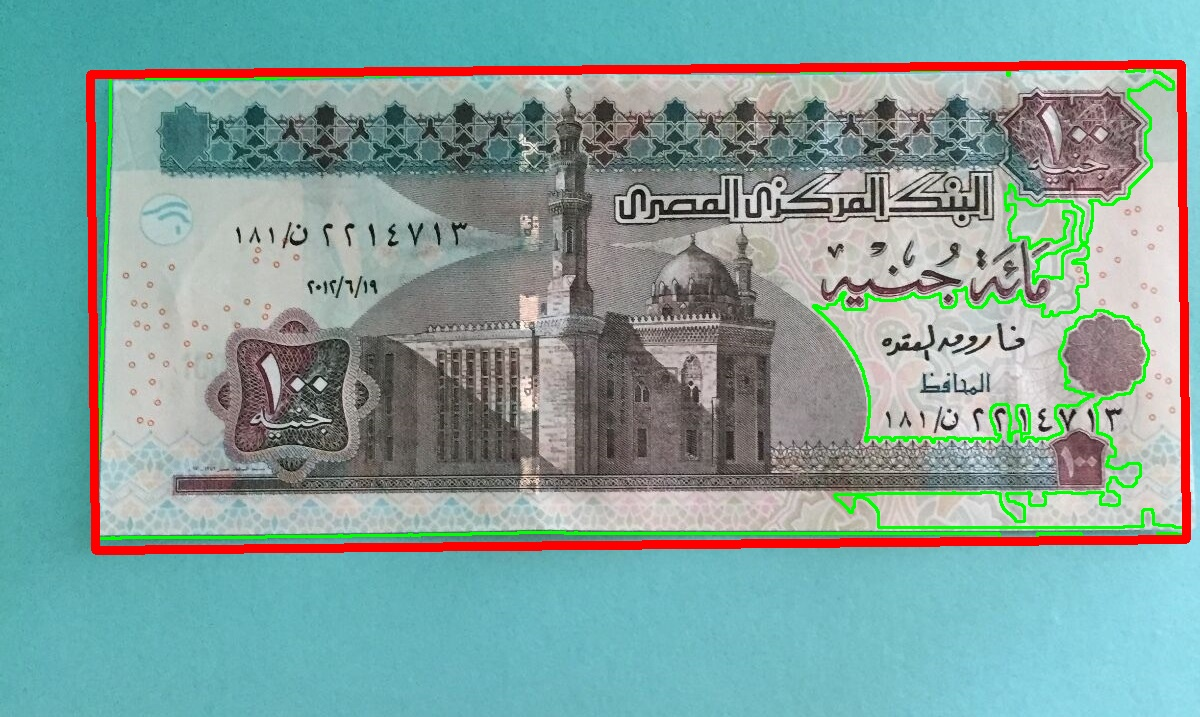
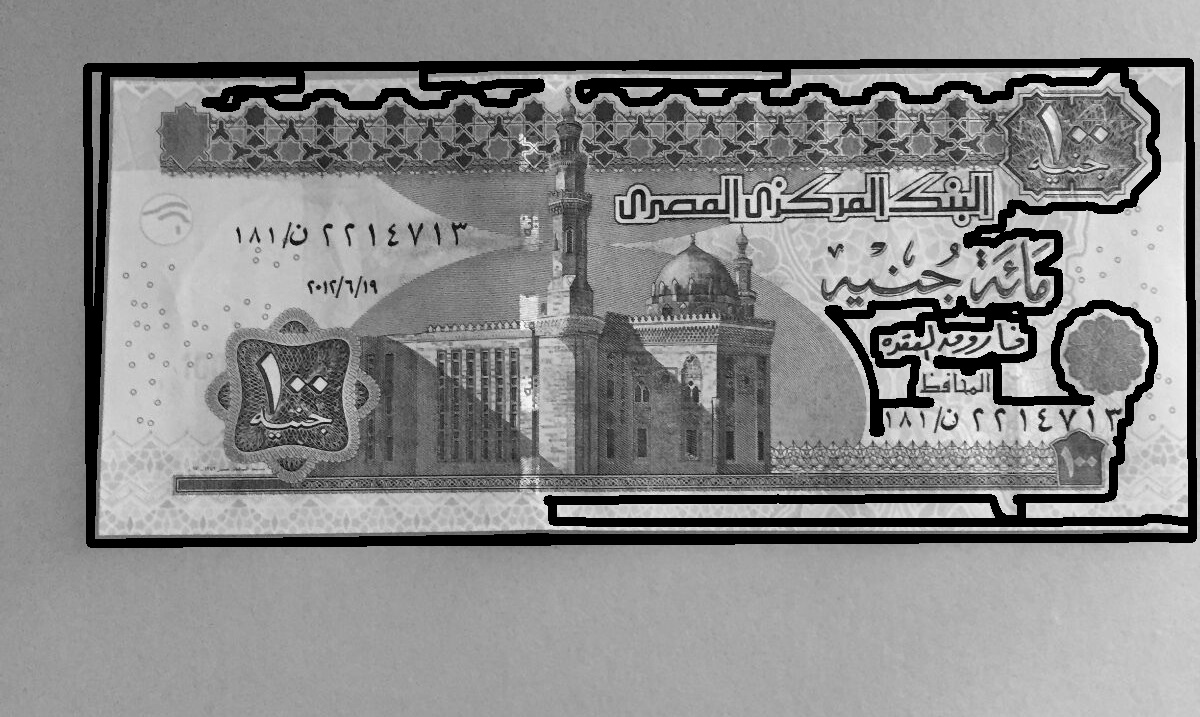
Improved detection by filtering and thresholding (still not good enough)

diff --git a/src/BanknoteContour.java b/src/BanknoteContour.java
@@ -33,40 +33,60 @@ public class BanknoteContour {
 
             Mat src = Imgcodecs.imread(folder + "/"+ fileName, Imgcodecs.IMREAD_GRAYSCALE);
             Mat srcColor = Imgcodecs.imread(folder + "/"+ fileName, Imgcodecs.IMREAD_COLOR);
-
-            // Reduce noise by filtering
-            Mat srcFiltered = new Mat();
+           
+            // REduce noise by filtering
+            Mat srcBlurred = new Mat();            
             Size ksize = new Size(5, 5);
             double sigmaX = 0;
             double sigmaY = 0;
-            Imgproc.GaussianBlur(src, srcFiltered, ksize, sigmaX, sigmaY , Core.BORDER_DEFAULT);
+            Imgproc.GaussianBlur(src, srcBlurred, ksize, sigmaX, sigmaY , Core.BORDER_DEFAULT);
+            
+            // Sharpen the image to emphasize the edges
+            Mat kernelSharpening = new Mat( new Size(3,3), CvType.CV_32F);
+            double[] data = {-1, -1, -1, -1, 9, -1, -1, -1, -1};
+            kernelSharpening.put(0, 0, data);
+            Mat srcSharpened = new Mat();
+            Imgproc.filter2D(src, srcSharpened, -1, kernelSharpening);
 
             // Improve the contrast to account for lighting conditions
             Mat srcEqualized = new Mat();
-            Imgproc.equalizeHist(srcFiltered, srcEqualized);
-
-            // Find edges
-            Mat cannyOutput = new Mat();
-            int cannyThreshold = 100;
-            Imgproc.Canny(srcEqualized, cannyOutput, cannyThreshold, cannyThreshold * 2);
-
+            Imgproc.equalizeHist(srcBlurred, srcEqualized);
+            
             // Get rid of self intersecting contours
-            int kernelSize = 3;
+            int kernelSize = 2;
             int elementType = Imgproc.CV_SHAPE_RECT;
             Mat element = Imgproc.getStructuringElement(
                     elementType, new Size(2 * kernelSize + 1, 2 * kernelSize + 1),
                     new Point(kernelSize, kernelSize));
-            Imgproc.dilate(cannyOutput, cannyOutput, element);
-            //Imgproc.erode(srcEqualized, srcEqualized, element);
+            //Imgproc.dilate(srcSharpened, srcSharpened, element, new Point(element.width()/2, element.height()/2), 4);
+            //Imgproc.erode(src, src, element, new Point(element.width()/2, element.height()/2), 1);
+                       
+            // threshold to find the contour
+            Mat thresholded = new Mat();
+            Imgproc.threshold(srcBlurred, thresholded, 0, 255, Imgproc.THRESH_BINARY_INV + Imgproc.THRESH_OTSU);
 
+            
+            // Find edges
+            Mat cannyOutput = new Mat();
+            int cannyThreshold = 70;
+            Imgproc.Canny(srcBlurred, cannyOutput, cannyThreshold, cannyThreshold * 2);
+
+            // Increase contour thickness
+            Mat dilated  = new Mat();
+            Imgproc.dilate(cannyOutput, cannyOutput, element, new Point(element.width()/2, element.height()/2), 4);
+
+            //Mat drawing = cannyOutput;
+            //Mat drawing  = new Mat(src.size(), CvType.CV_8UC3);
+            Mat drawing = src;
+
+            
             // Find all contours
             Mat hierarchy = new Mat();
             List<MatOfPoint> contours = new ArrayList<>();
             Imgproc.findContours(cannyOutput, contours, hierarchy, Imgproc.RETR_EXTERNAL, Imgproc.CHAIN_APPROX_SIMPLE);
 
-            System.out.println("Number of contours = " + String.valueOf(contours.size()));
+            //System.out.println("Number of contours = " + String.valueOf(contours.size()));
 
-            Mat drawing = srcColor; 
             Scalar green = new Scalar(0, 255, 0);
             Scalar blue = new Scalar(0, 0, 255);
 
@@ -96,14 +116,17 @@ public class BanknoteContour {
                     rect.points(vertices);
                     verticesMat.fromArray(vertices);
 
-                    Imgproc.drawContours(drawing, contours, j, green, 2, Imgproc.LINE_8, hierarchy, 0);
+                    Imgproc.drawContours(drawing, contours, j, green, Imgproc.LINE_8, Imgproc.LINE_8, hierarchy, 0);
                     
                     drawRotatedRect(drawing, vertices, blue);
                 }
             }
             
+            
             Imgcodecs.imwrite("result/"+fileName, drawing);
+        
         }
+        
 
         System.out.println("Finished finding contours ..." );
         System.exit(0);        
